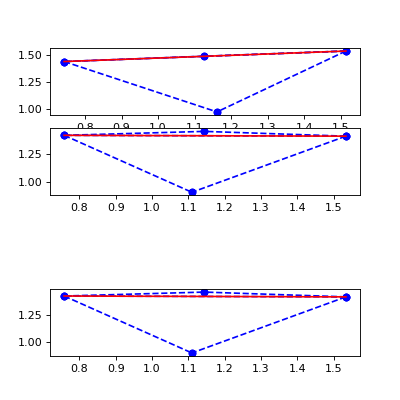
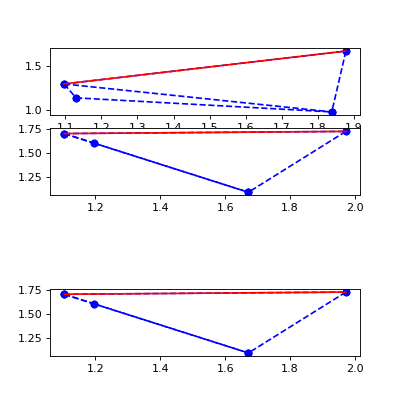
Cleaned up 6/25 model

diff --git a/Planar Two-state/gradient2state.py b/Planar Two-state/gradient2state.py
@@ -30,45 +30,41 @@ def gradient_update(nodes_x,nodes_y, adj_mat, edges):
             temp_x=copy.deepcopy(best_x)
             temp_y=copy.deepcopy(best_y)
             temp_x[a]=temp_x[a]+step
-            if utils.planar_check(a, temp_x, temp_y, edges):
-                temp_fit=measure_fitness_2state.fitness(temp_x,temp_y,False, adj_mat, edges)
-                if temp_fit>best_value:
-                    best_value=temp_fit
-                    best_x=copy.deepcopy(temp_x)
-                    best_y=copy.deepcopy(temp_y)
+            temp_fit=measure_fitness_2state.fitness(temp_x,temp_y,False, adj_mat, edges)
+            if temp_fit>best_value:
+                best_value=temp_fit
+                best_x=copy.deepcopy(temp_x)
+                best_y=copy.deepcopy(temp_y)
 
             #-x step 
             temp_x=copy.deepcopy(best_x)
             temp_y=copy.deepcopy(best_y)
             temp_x[a]=temp_x[a]-step
-            if utils.planar_check(a, temp_x, temp_y, edges):
-                temp_fit=measure_fitness_2state.fitness(temp_x,temp_y,False, adj_mat, edges)
-                if temp_fit>best_value:
-                    best_value=temp_fit
-                    best_x=copy.deepcopy(temp_x)
-                    best_y=copy.deepcopy(temp_y)
+            temp_fit=measure_fitness_2state.fitness(temp_x,temp_y,False, adj_mat, edges)
+            if temp_fit>best_value:
+                best_value=temp_fit
+                best_x=copy.deepcopy(temp_x)
+                best_y=copy.deepcopy(temp_y)
 
             #+y step 
             temp_x=copy.deepcopy(best_x)
             temp_y=copy.deepcopy(best_y)
             temp_y[a]=temp_y[a]+step
-            if utils.planar_check(a, temp_x, temp_y, edges):
-                temp_fit=measure_fitness_2state.fitness(temp_x,temp_y,False, adj_mat, edges)
-                if temp_fit>best_value:
-                    best_value=temp_fit
-                    best_x=copy.deepcopy(temp_x)
-                    best_y=copy.deepcopy(temp_y)
+            temp_fit=measure_fitness_2state.fitness(temp_x,temp_y,False, adj_mat, edges)
+            if temp_fit>best_value:
+                best_value=temp_fit
+                best_x=copy.deepcopy(temp_x)
+                best_y=copy.deepcopy(temp_y)
 
             #-y step 
             temp_x=copy.deepcopy(best_x)
             temp_y=copy.deepcopy(best_y)
             temp_y[a]=temp_y[a]-step
-            if utils.planar_check(a, temp_x, temp_y, edges):
-                temp_fit=measure_fitness_2state.fitness(temp_x,temp_y,False, adj_mat, edges)
-                if temp_fit>best_value:
-                    best_value=temp_fit
-                    best_x=copy.deepcopy(temp_x)
-                    best_y=copy.deepcopy(temp_y)
+            temp_fit=measure_fitness_2state.fitness(temp_x,temp_y,False, adj_mat, edges)
+            if temp_fit>best_value:
+                best_value=temp_fit
+                best_x=copy.deepcopy(temp_x)
+                best_y=copy.deepcopy(temp_y)
             
 
 

diff --git a/Planar Two-state/utils.py b/Planar Two-state/utils.py
@@ -30,14 +30,6 @@ def intersects_with_any(node1, node2, nodes_x, nodes_y, edges):
             return True
     return False
 
-def planar_check(node, nodes_x, nodes_y, edges):
-    '''
-    Given a node and the components of a graph, returns true if that node has no edges which intersect with other edges
-    '''
-    for i in range(len(edges)):
-        if node in edges[i] and intersects_with_any(edges[i][0], edges[i][1], nodes_x, nodes_y, edges):
-            return False
-    return True
 
 def is_planar(nodes_x, nodes_y, edges):
     for i in range(len(edges)):

diff --git a/Planar Two-state/run_gen2state.py b/Planar Two-state/run_gen2state.py
@@ -9,8 +9,8 @@ import utils
 
 
 
-population_size=20 #number of individuals in populatoin
-generations=20 #number of generations to run
+population_size=40 #number of individuals in populatoin
+generations=40 #number of generations to run
 
 #init population
 best=0
